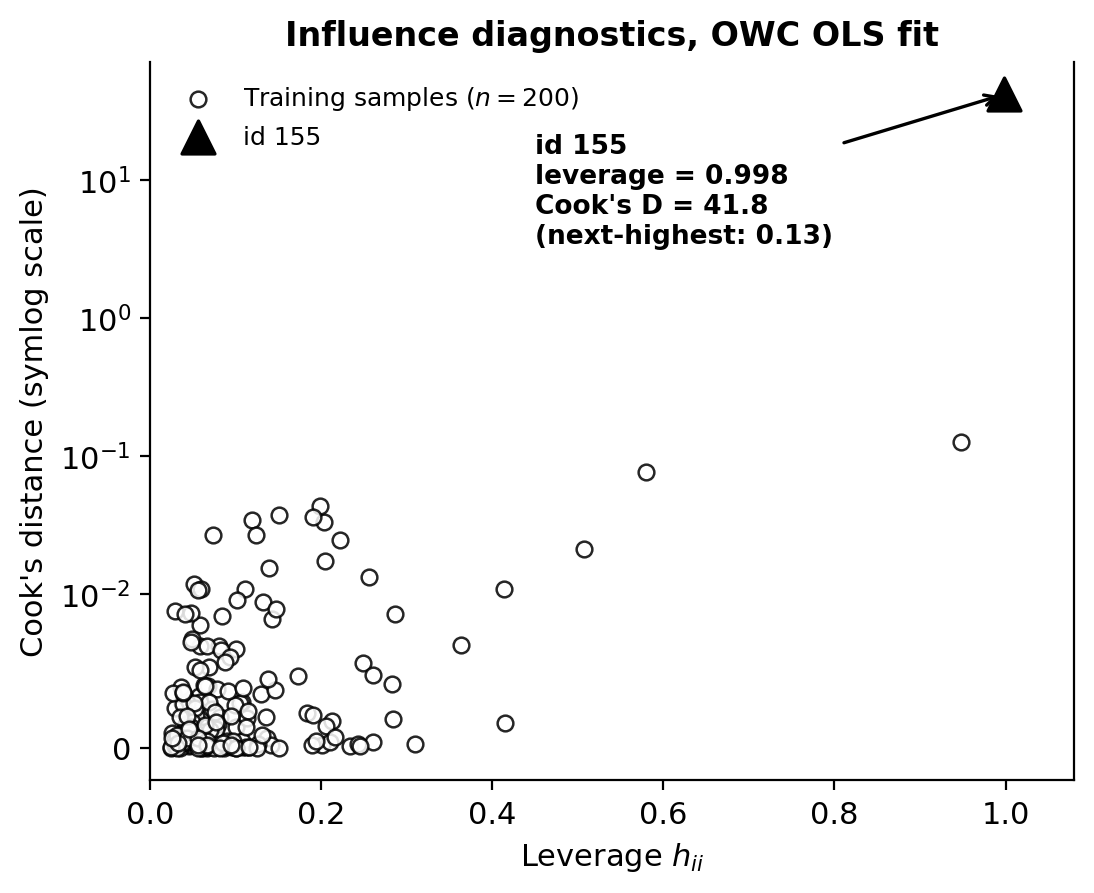
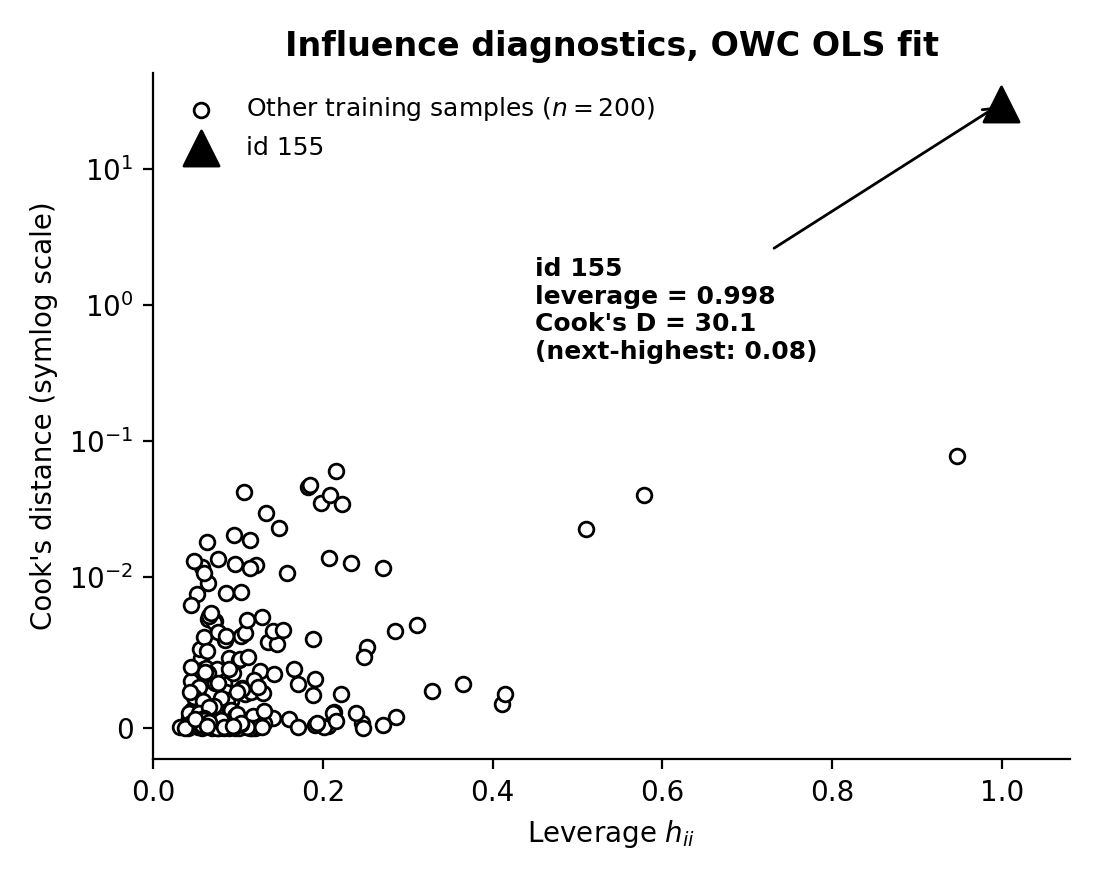
update figure and remove unnecessary markdown file

diff --git a/src/fine_specialist.py b/src/fine_specialist.py
@@ -32,7 +32,7 @@ This is a genuinely different bet from the correction approach, not just a
 different implementation of the same idea: a correction model only has to
 explain whatever residual signal the general model's blend weights (fit
 across BOTH soil types) left behind on fine-grained rows specifically --
-Section 7 of docs/260804.md documents that residual turning out to be thin
+model_description.md documents that residual turning out to be thin
 (nested OOF R^2 0.04-0.08) and the correction's Kaggle score coming in worse
 than the uncorrected general model. A standalone specialist instead lets
 Ridge/GPR/XGBoost's own blend-weight search run fresh on the fine-grained
@@ -52,8 +52,7 @@ project (v15/v16, model1/model1i/model2i, general_model_impute.py's own
 IMPUTED_FEATURES) drops it outright. That project-wide decision was tested
 on the GENERAL model, which is fit across both soil types at once -- v10 vs.
 v15's controlled A/B on Kaggle (0.2384 keeping it vs. 0.2383 dropping it)
-found the difference indistinguishable from noise (docs/260804.md Section
-6). But that same v10 ARD-GP run found `hyd_cond_hyd_gradient` DID survive
+found the difference indistinguishable from noise (model_description.md). But that same v10 ARD-GP run found `hyd_cond_hyd_gradient` DID survive
 OWC's feature-relevance selection specifically (length-scale 7.14, top-10
 for OWC) -- so the "doesn't matter" finding was never isolated to
 fine-grained rows or to this WeightedBlendRegressor architecture. Since this

diff --git a/scripts/model3i.py b/scripts/model3i.py
@@ -39,7 +39,7 @@ high-confidence rows lean toward beta_hi_conf.
 Motivation: model2i.py's Kaggle result (0.2667) was WORSE than plain
 model1i (0.2465) despite the correction improving its own fine-grained-
 subset OOF metric -- a real negative result, not just noise (see
-docs/260804.md Section 1/model2i writeup). One plausible failure mode: a
+`model_description.md` writeup). One plausible failure mode: a
 single global beta forces the SAME correction strength onto every
 fine-grained row, including ones the specialist genuinely can't say much
 about -- diluting the general model's already-decent prediction with a
@@ -49,7 +49,7 @@ this is a genuinely new, unvalidated mechanism (no notebook precedent, no
 prior Kaggle submission), not a known improvement. Compare its own OOF
 numbers against model2i's and model1i's before trusting it; it may not
 beat model1i either -- see this project's running heuristic
-(docs/260804.md) that small internal deltas rarely survive a real Kaggle
+(model_description.md) that small internal deltas rarely survive a real Kaggle
 submission at this dataset's size.
 
 This script scraps the earlier model3ic.py (4-soil-type proportional

diff --git a/scripts/tabpfn_baseline.py b/scripts/tabpfn_baseline.py
@@ -9,13 +9,12 @@ datasets. Included as a baseline specifically because it was designed for
 exactly this dataset's regime (small n, no manual tuning) -- n=201 is well
 inside TabPFN's intended operating range.
 
-Same convention as every other model in this project (docs/260804.md
-Section 8): MDD and OWC are fit as two independent models, not jointly.
+Same convention as every other model in this project (model_description.md): MDD and OWC are fit as two independent models, not jointly.
 Same feature set as model1i (IMPUTED_FEATURES, 28 MICE-imputed universal
 columns) and the same StratifiedKFold-on-MDD-quantile validation scheme
 (general_model_impute.make_stratified_kfold_splits) model1i.py uses, so this
 script's OOF NMAE is directly comparable to the model1/model1i/model2i
-family's already-logged internal numbers in docs/260804.md.
+family's already-logged internal numbers in model_description.md.
 
 Uses TabPFN-2 specifically (`ModelVersion.V2`), not the package's own default model
 version -- the pip package `tabpfn` (>=8.x) defaults to v2.5/v2.6/v3, which require a

diff --git a/scripts/model1h.py b/scripts/model1h.py
@@ -11,7 +11,7 @@ Why: a direct, equal-tuning-effort comparison (50 Optuna trials each, same
 IMPUTED_FEATURES, same StratifiedKFold-on-MDD-quantile splits) found HistGBT beats
 XGBoost on this dataset -- MDD is a near-tie (R^2 0.8522 vs 0.8533), OWC is a real win for
 HistGBT (R^2 0.7983 vs 0.7888), and combined NMAE favors HistGBT (0.2495 vs 0.2549). This
-also lines up with docs/260804.md's existing finding that v15 (HistGBT + GP blend) is the
+also lines up with model_description.md's existing finding that v15 (HistGBT + GP blend) is the
 best Kaggle submission logged so far (0.2383), beating model1i's XGBoost-based blend
 (0.2610) -- this script isolates just the boosting-library variable to test that
 connection directly, on the general-model family specifically.

diff --git a/scripts/tabicl_baseline.py b/scripts/tabicl_baseline.py
@@ -8,7 +8,7 @@ training rows (AdamW, cosine-with-warmup, gradient clipping, early stopping agai
 held-out split) before predicting -- a genuinely different bet from tabpfn_baseline.py,
 not just a different pretrained model.
 
-Same convention as every other model in this project (docs/260804.md Section 8): MDD and
+Same convention as every other model in this project (`model_description.md`): MDD and
 OWC are fit as two independent models, not jointly. Same feature set as model1i
 (IMPUTED_FEATURES, 28 MICE-imputed universal columns) and the same
 StratifiedKFold-on-MDD-quantile validation scheme (general_model_impute.

diff --git a/docs/01-plan/features/model3.plan.md b/docs/01-plan/features/model3.plan.md
@@ -50,7 +50,7 @@ model also sees coarse rows). So the population split should sit as **late** as 
 to keep as much of the network's depth benefiting from the full pooled 201 rows for as long as possible.
 
 **Target split doesn't cost data, but needs real capacity relatively early, not late.** The cautionary
-precedent is `docs/260804.md` Section 8's shared multi-output MLP (`hidden_layer_sizes=(128,64,32)`, shared
+precedent is `model_description.md`'s shared multi-output MLP (`hidden_layer_sizes=(128,64,32)`, shared
 all the way to the output layer, diverging only at the final neuron) — R² 0.097 MDD / **-0.151** OWC, the
 worst architecture tested on this dataset. The likely failure mode: with almost the entire network shared,
 MDD's easier signal dominated the shared representation at OWC's expense. Giving each target a real encoder
@@ -66,7 +66,7 @@ unstructured (target) gets dedicated capacity early.
 
 | Prior work | Relevance |
 |---|---|
-| `docs/260804.md` Section 8 (shared multi-output MLP, chaining, separate MLPs) | The only prior test of MDD/OWC sharing on this dataset — informs why target encoders need real capacity, not a warning against sharing per se |
+| `model_description.md` (shared multi-output MLP, chaining, separate MLPs) | The only prior test of MDD/OWC sharing on this dataset — informs why target encoders need real capacity, not a warning against sharing per se |
 | `eda.ipynb`'s `SharedEncoderTwoHead` (curve-LSTM) | Same "shared encoder, target heads" shape as this plan's upper half, applied to curve-shaped PSD inputs instead of scalar `IMPUTED_FEATURES` — unvalidated, no R²/NMAE ever recorded |
 | `model_reasoning.ipynb` Sections 1-4.1 | Fine/coarse near-orthogonal standardized-Ridge-coefficient finding (justifies zero sharing at the population leaves); pooling-helps finding under XGBoost (justifies delaying the population split); the flag-conditioning-adds-nothing finding is specific to tree splits and does **not** directly transfer here — this architecture's "conditioning" is structural (separate weight branches), not a concatenated scalar feature, so it isn't invalidated by that result |
 | `coarse_specialist.py` / `fine_specialist.py` | Zero-pooling extreme; not used as a required baseline here, but their `IMPUTED_FEATURES`/imputation pipeline is reused directly (Section 5) |
@@ -79,7 +79,7 @@ unstructured (target) gets dedicated capacity early.
   from every other model in this project, which fits them as fully separate models/scripts).
 - **All four population×target leaves** — no leaf is optional or gated behind the others clearing some bar.
 - **No comparison-based go/no-go.** Results get reported (Section 8) for documentation, same as every other
-  model in this project's `docs/260804.md` — but nothing here is contingent on beating model1i, v15, or the
+  model in this project's `model_description.md` — but nothing here is contingent on beating model1i, v15, or the
   specialists.
 
 ---
@@ -140,12 +140,12 @@ underfitting, don't jump back to anything near `(128,64,32)`.
 
 ## 8. Reporting (not gating)
 
-Report, per leaf and combined, the same way `docs/260804.md` documents every other model — including if the
+Report, per leaf and combined, the same way `model_description.md` documents every other model — including if the
 result is negative:
 
 | Metric | Where |
 |---|---|
-| OOF R² / RMSE per leaf (MDD-fine, MDD-coarse, OWC-fine, OWC-coarse), mean ± std over repeated folds | `docs/260804.md` addendum |
+| OOF R² / RMSE per leaf (MDD-fine, MDD-coarse, OWC-fine, OWC-coarse), mean ± std over repeated folds | `model_description.md` addendum |
 | Combined NMAE (competition metric) | Same |
 | Comparison row against model1i/v15/specialists | For context only — informative, not a pass/fail condition |
 
@@ -177,7 +177,7 @@ this model's own OWC output.
 |---|---|
 | `src/model3.py` | `SharedEncoderTargetPopulationHead` (`nn.Module`) + train/predict helpers |
 | `scripts/model3.py` | CLI pipeline: data prep, repeated-CV training/eval, final refit, submission write |
-| `docs/260804.md` addendum | OOF results per leaf + combined NMAE + Kaggle score, reported regardless of outcome |
+| `model_description.md` addendum | OOF results per leaf + combined NMAE + Kaggle score, reported regardless of outcome |
 | `submissions/submission_model3.csv` | Written after the final refit |
 
 ---
@@ -186,7 +186,7 @@ this model's own OWC output.
 
 1. [ ] Design phase: finalize the exact `nn.Module` spec, file/CLI structure, dependencies
 2. [ ] Implement `src/model3.py` + `scripts/model3.py` per Sections 5-9
-3. [ ] Run repeated CV, log results to `docs/260804.md` regardless of how they compare to existing models
+3. [ ] Run repeated CV, log results to `model_description.md` regardless of how they compare to existing models
 4. [ ] Submit to Kaggle, record the score
 
 ---

diff --git a/final_submission/docs/model_description.md b/final_submission/docs/model_description.md
@@ -21,8 +21,7 @@
 Every model tried in this project, newest first. `v1`–`v14` were the first documented wave (SINDy/SHAP/GBM/PINN,
 scored by 5-fold CV NMAE only — no Kaggle account was being used for submission yet). Starting with `v6`/`model1`,
 every version below was scored against the real Kaggle leaderboard at least once, a directly comparable,
-apples-to-apples number across all of them (unlike the mix of CV protocols used upstream — see
-[`docs/260804.md`](../docs/260804.md) §1 for the full internal-vs-Kaggle reconciliation). Two lines of development
+apples-to-apples number across all of them (unlike the mix of CV protocols used upstream). Two lines of development
 ran in parallel: a **GPR/GBT line** (`v6`→`v17`, Gaussian Process + gradient-boosted trees) and a **general-model
 line** (`model1`→`model6i`, Ridge+GPR+XGBoost blend + correction stages), plus a handful of blends and one-off
 architecture/baseline experiments. **The two bolded rows are this project's actual final Kaggle submissions** —
@@ -165,8 +164,7 @@ remains this project's single most promising untested lead for beating v15's 0.2
 Two very different models were chosen as this project's final Kaggle entries: **v15** (the GPR/GBT line's
 best model) and **model1i** (the general-model line's best model). Every other model documented above,
 including several with *better-looking internal validation numbers*, either lost to one of these two on
-the actual leaderboard or was never trusted enough to submit as a final entry — see
-[`docs/260804.md`](../docs/260804.md) for the full experimental trail behind that filtering. Both final
+the actual leaderboard or was never trusted enough to submit as a final entry. Both final
 picks share one important property that most of the negative-result models above lack: their internal
 cross-validation estimate turned out to be an honest, close predictor of their real Kaggle score, once
 seed/split noise was accounted for.
@@ -240,8 +238,9 @@ a purely linear or purely GP fit. Predicted OWC is clipped to ≥ 0 and predicte
 Zero-Air-Voids line, the same physics guardrail v15 uses.
 
 **The single largest, most-confirmed lever in this entire project: dropping training id 155.** Row 155 is an
-extreme leverage point — the highest Cook's distance in the dataset by a wide margin (leverage 0.985, OWC
-Cook's D=12.4 vs. ~0.1 for the next-highest row; see `figures/owc_leverage_cooksd_id155.png` and
+extreme leverage point — the highest Cook's distance in the dataset by a wide margin (OLS fit of OWC on the
+28-column imputed feature set, n=201: leverage 0.998, Cook's D=30.1 vs. 0.08 for the next-highest row;
+see `figures/owc_leverage_cooksd_id155.png`, generated in `notebooks/data_analysis.ipynb` ("Outlier Diagnosis"), and
 `figures/mdd_owc_scatter_id155.png`). Excluding it from model1i's training set moved the Kaggle score from
 **0.2610 to 0.2465** — a ~5.6% relative improvement, and unlike almost every other intervention tried in
 this project (corrections, blends, calibration, alternate feature sets), it isn't a fitted parameter or a

diff --git a/model_description.md b/model_description.md
@@ -21,8 +21,7 @@
 Every model tried in this project, newest first. `v1`–`v14` were the first documented wave (SINDy/SHAP/GBM/PINN,
 scored by 5-fold CV NMAE only — no Kaggle account was being used for submission yet). Starting with `v6`/`model1`,
 every version below was scored against the real Kaggle leaderboard at least once, a directly comparable,
-apples-to-apples number across all of them (unlike the mix of CV protocols used upstream — see
-[`docs/260804.md`](../docs/260804.md) §1 for the full internal-vs-Kaggle reconciliation). Two lines of development
+apples-to-apples number across all of them (unlike the mix of CV protocols used upstream). Two lines of development
 ran in parallel: a **GPR/GBT line** (`v6`→`v17`, Gaussian Process + gradient-boosted trees) and a **general-model
 line** (`model1`→`model6i`, Ridge+GPR+XGBoost blend + correction stages), plus a handful of blends and one-off
 architecture/baseline experiments. **The two bolded rows are this project's actual final Kaggle submissions** —
@@ -165,8 +164,7 @@ remains this project's single most promising untested lead for beating v15's 0.2
 Two very different models were chosen as this project's final Kaggle entries: **v15** (the GPR/GBT line's
 best model) and **model1i** (the general-model line's best model). Every other model documented above,
 including several with *better-looking internal validation numbers*, either lost to one of these two on
-the actual leaderboard or was never trusted enough to submit as a final entry — see
-[`docs/260804.md`](../docs/260804.md) for the full experimental trail behind that filtering. Both final
+the actual leaderboard or was never trusted enough to submit as a final entry. Both final
 picks share one important property that most of the negative-result models above lack: their internal
 cross-validation estimate turned out to be an honest, close predictor of their real Kaggle score, once
 seed/split noise was accounted for.
@@ -240,8 +238,9 @@ a purely linear or purely GP fit. Predicted OWC is clipped to ≥ 0 and predicte
 Zero-Air-Voids line, the same physics guardrail v15 uses.
 
 **The single largest, most-confirmed lever in this entire project: dropping training id 155.** Row 155 is an
-extreme leverage point — the highest Cook's distance in the dataset by a wide margin (leverage 0.985, OWC
-Cook's D=12.4 vs. ~0.1 for the next-highest row; see `figures/owc_leverage_cooksd_id155.png` and
+extreme leverage point — the highest Cook's distance in the dataset by a wide margin (OLS fit of OWC on the
+28-column imputed feature set, n=201: leverage 0.998, Cook's D=30.1 vs. 0.08 for the next-highest row;
+see `figures/owc_leverage_cooksd_id155.png`, generated in `notebooks/data_analysis.ipynb` ("Outlier Diagnosis"), and
 `figures/mdd_owc_scatter_id155.png`). Excluding it from model1i's training set moved the Kaggle score from
 **0.2610 to 0.2465** — a ~5.6% relative improvement, and unlike almost every other intervention tried in
 this project (corrections, blends, calibration, alternate feature sets), it isn't a fitted parameter or a

diff --git a/README.md b/README.md
@@ -46,8 +46,7 @@ Two architecturally distinct models were submitted as our final entries. Every o
 over 30 of them, spanning PINNs, Gaussian Processes, gradient-boosted trees, residual-correction stages,
 blends, and pretrained tabular foundation models — either lost to one of these two on the real leaderboard
 or was never trusted enough to submit. See **[`model_description.md`](model_description.md)** for the full
-model-by-model comparison table and long-form writeups, and **[`docs/260804.md`](docs/260804.md)** for the
-underlying experimental trail (internal-vs-Kaggle reconciliation, outlier analysis, seed-sensitivity checks).
+model-by-model comparison table, long-form writeups, outlier analysis, and seed-sensitivity checks.
 
 | Submission | Approach | Kaggle Score (NMAE) |
 |---|---|---|
@@ -70,7 +69,7 @@ src/             Shared library code: feature engineering, imputation, blend reg
 models/          Cached fitted models (joblib / torch checkpoints), reused across runs unless --force_retrain
 submissions/     Every submission.csv generated, one per model/ablation tried
 notebooks/       EDA and analysis notebooks (data_analysis.ipynb, eda.ipynb, starter.ipynb)
-docs/            Plan/design/analysis documents, including docs/260804.md (the full experimental log)
+docs/            Plan/design/analysis documents
 logs/            Per-run text logs (OOF metrics, blend weights, Optuna trials) for every script above
 figures/         Diagnostic plots (residuals, leverage/Cook's distance, PCA, public/private comparisons)
 resources/       Reference PDFs (MICE methodology, empirical Proctor-parameter literature)
@@ -138,7 +137,5 @@ or see `model_description.md` for what each script's defaults represent.
 
 - **[`model_description.md`](model_description.md)** — every model tried, one-line summary + score each,
   plus long-form writeups of the two final submissions and the general-model family.
-- **[`docs/260804.md`](docs/260804.md)** — the detailed experimental log behind the model comparisons
-  (id-155 outlier analysis, seed-sensitivity de-lucking, internal-vs-Kaggle validation reconciliation).
 - **[`docs/03-analysis/proctor-prediction.analysis.md`](docs/03-analysis/proctor-prediction.analysis.md)** —
   exploratory data analysis backing the feature-engineering decisions.

diff --git a/final_submission/docs/README.md b/final_submission/docs/README.md
@@ -46,8 +46,7 @@ Two architecturally distinct models were submitted as our final entries. Every o
 over 30 of them, spanning PINNs, Gaussian Processes, gradient-boosted trees, residual-correction stages,
 blends, and pretrained tabular foundation models — either lost to one of these two on the real leaderboard
 or was never trusted enough to submit. See **[`model_description.md`](model_description.md)** for the full
-model-by-model comparison table and long-form writeups, and **[`docs/260804.md`](docs/260804.md)** for the
-underlying experimental trail (internal-vs-Kaggle reconciliation, outlier analysis, seed-sensitivity checks).
+model-by-model comparison table, long-form writeups, outlier analysis, and seed-sensitivity checks.
 
 | Submission | Approach | Kaggle Score (NMAE) |
 |---|---|---|
@@ -70,7 +69,7 @@ src/             Shared library code: feature engineering, imputation, blend reg
 models/          Cached fitted models (joblib / torch checkpoints), reused across runs unless --force_retrain
 submissions/     Every submission.csv generated, one per model/ablation tried
 notebooks/       EDA and analysis notebooks (data_analysis.ipynb, eda.ipynb, starter.ipynb)
-docs/            Plan/design/analysis documents, including docs/260804.md (the full experimental log)
+docs/            Plan/design/analysis documents
 logs/            Per-run text logs (OOF metrics, blend weights, Optuna trials) for every script above
 figures/         Diagnostic plots (residuals, leverage/Cook's distance, PCA, public/private comparisons)
 resources/       Reference PDFs (MICE methodology, empirical Proctor-parameter literature)
@@ -138,7 +137,5 @@ or see `model_description.md` for what each script's defaults represent.
 
 - **[`model_description.md`](model_description.md)** — every model tried, one-line summary + score each,
   plus long-form writeups of the two final submissions and the general-model family.
-- **[`docs/260804.md`](docs/260804.md)** — the detailed experimental log behind the model comparisons
-  (id-155 outlier analysis, seed-sensitivity de-lucking, internal-vs-Kaggle validation reconciliation).
 - **[`docs/03-analysis/proctor-prediction.analysis.md`](docs/03-analysis/proctor-prediction.analysis.md)** —
   exploratory data analysis backing the feature-engineering decisions.

diff --git a/docs/02-design/features/model3.design.md b/docs/02-design/features/model3.design.md
@@ -147,7 +147,7 @@ owc_coarse_r2 = r2_score(y_owc[~fine_mask], oof_owc[~fine_mask])
 combined_nmae = calculate_nmae(...)   # reuse helper_functions.calculate_nmae, fixed global IQR (v14.design.md §4 precedent)
 ```
 
-Log all four leaf R²s (mean ± std over repeats) and the combined NMAE to `docs/260804.md`, plus a context-only
+Log all four leaf R²s (mean ± std over repeats) and the combined NMAE to `model_description.md`, plus a context-only
 row comparing against model1i/v15/specialists — informative, not a condition for shipping.
 
 ---
@@ -204,9 +204,9 @@ the `src/` (reusable model code) vs. `scripts/` (runnable CLI) split already use
 - [ ] Per-target loss curves logged during training (Decision 1.3) — checked for one target dominating before
       results are reported
 - [ ] Repeated CV (`RepeatedStratifiedKFold(5, 5)` on `fine-grained`), mean ± std reported for all four leaves
-      and combined NMAE — no single-split point estimates (`docs/260804.md` Section 3 precedent)
+      and combined NMAE — no single-split point estimates (`model_description.md` precedent)
 - [ ] Saturation clip applied via `helper_functions.calc_satline`, using this model's own OWC output (§6)
-- [ ] `docs/260804.md` updated with results — reported regardless of whether they beat existing models
+- [ ] `model_description.md` updated with results — reported regardless of whether they beat existing models
 - [ ] Kaggle score recorded
 
 ---

diff --git a/final_submission/README.md b/final_submission/README.md
@@ -64,8 +64,6 @@ Copied from the repo root / `docs/` for context.
 - `README.md` — the main repo's README (objective, results table, repo structure, setup instructions).
 - `model_description.md` — every model tried in the project, one-line summary + score each, plus the
   long-form "Final Submissions" writeups for v15 and model1i excerpted above.
-- `260804.md` — the detailed experimental log behind the model comparisons (id-155 outlier analysis,
-  seed-sensitivity de-lucking, internal-vs-Kaggle validation reconciliation).
 
 ## Root
 - `README.md` — this file.
